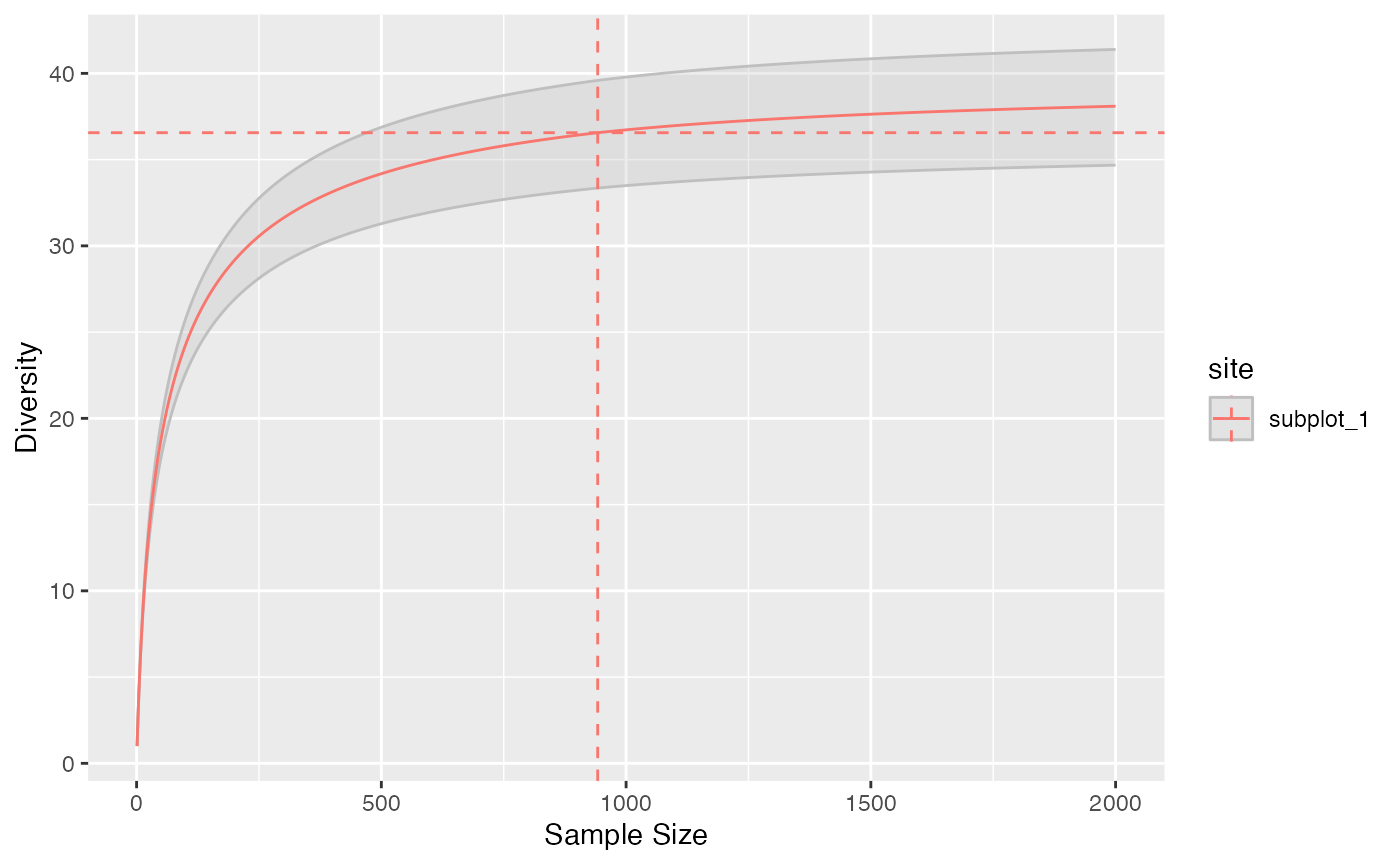
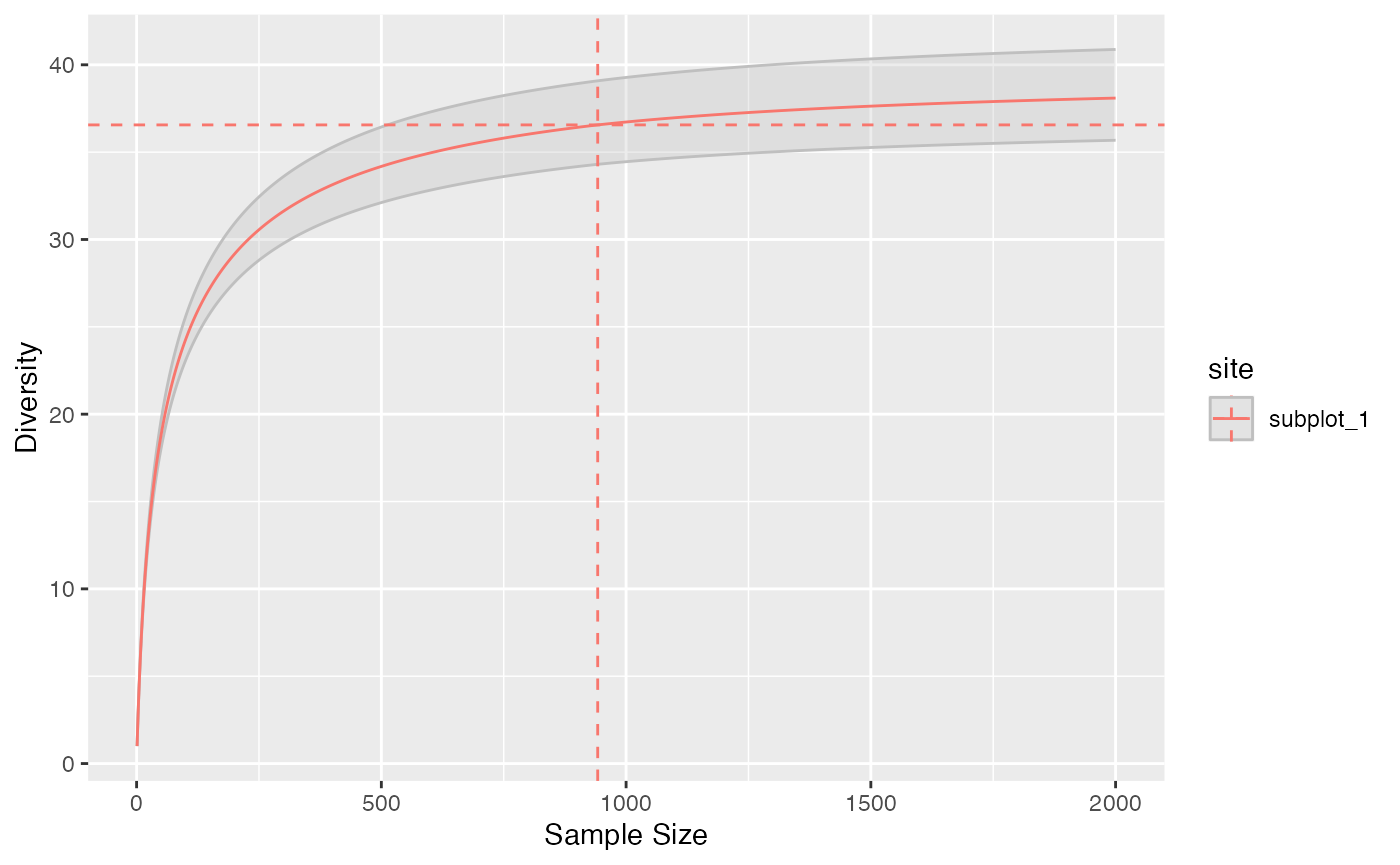
Built site for divent: 0.3.12@9937432

diff --git a/reference/check_divent_args.html b/reference/check_divent_args.html
@@ -17,7 +17,7 @@
       </button>
       <span class="navbar-brand">
         <a class="navbar-link" href="../index.html">divent</a>
-        <span class="version label label-default" data-toggle="tooltip" data-placement="bottom" title="Released version">0.3.11</span>
+        <span class="version label label-default" data-toggle="tooltip" data-placement="bottom" title="Released version">0.3.12</span>
       </span>
     </div>
 
@@ -71,19 +71,29 @@
     <div id="ref-usage">
     <div class="sourceCode"><pre class="sourceCode r"><code><span><span class="fu">check_divent_args</span><span class="op">(</span></span>
 <span>  abundances <span class="op">=</span> <span class="cn">NULL</span>,</span>
+<span>  alpha <span class="op">=</span> <span class="cn">NULL</span>,</span>
 <span>  as_numeric <span class="op">=</span> <span class="cn">NULL</span>,</span>
 <span>  check_arguments <span class="op">=</span> <span class="cn">NULL</span>,</span>
+<span>  coverage_estimator <span class="op">=</span> <span class="cn">NULL</span>,</span>
+<span>  distances <span class="op">=</span> <span class="cn">NULL</span>,</span>
 <span>  estimator <span class="op">=</span> <span class="cn">NULL</span>,</span>
+<span>  gamma <span class="op">=</span> <span class="cn">NULL</span>,</span>
 <span>  jack_alpha <span class="op">=</span> <span class="cn">NULL</span>,</span>
 <span>  jack_max <span class="op">=</span> <span class="cn">NULL</span>,</span>
 <span>  level <span class="op">=</span> <span class="cn">NULL</span>,</span>
 <span>  n_simulations <span class="op">=</span> <span class="cn">NULL</span>,</span>
+<span>  normalize <span class="op">=</span> <span class="cn">NULL</span>,</span>
 <span>  probability_estimator <span class="op">=</span> <span class="cn">NULL</span>,</span>
 <span>  q <span class="op">=</span> <span class="cn">NULL</span>,</span>
+<span>  rate <span class="op">=</span> <span class="cn">NULL</span>,</span>
 <span>  richness_estimator <span class="op">=</span> <span class="cn">NULL</span>,</span>
 <span>  sample_coverage <span class="op">=</span> <span class="cn">NULL</span>,</span>
 <span>  show_progress <span class="op">=</span> <span class="cn">NULL</span>,</span>
-<span>  unveiling <span class="op">=</span> <span class="cn">NULL</span></span>
+<span>  similarities <span class="op">=</span> <span class="cn">NULL</span>,</span>
+<span>  species_distribution <span class="op">=</span> <span class="cn">NULL</span>,</span>
+<span>  tree <span class="op">=</span> <span class="cn">NULL</span>,</span>
+<span>  unveiling <span class="op">=</span> <span class="cn">NULL</span>,</span>
+<span>  weights <span class="op">=</span> <span class="cn">NULL</span></span>
 <span><span class="op">)</span></span></code></pre></div>
     </div>
 
@@ -91,6 +101,10 @@
     <h2>Arguments</h2>
     <dl><dt>abundances</dt>
 <dd><p>An object of class <a href="species_distribution.html">abundances</a>.</p></dd>
+
+
+<dt>alpha</dt>
+<dd><p>The risk level, 5% by default.</p></dd>
 
 
 <dt>as_numeric</dt>
@@ -102,8 +116,20 @@
 Should be set to <code>FALSE</code> to save time when the arguments have been checked elsewhere.</p></dd>
 
 
+<dt>coverage_estimator</dt>
+<dd><p>An estimator of sample coverage used by <a href="coverage.html">coverage</a>.</p></dd>
+
+
+<dt>distances</dt>
+<dd><p>A distance matrix or an object of class <a href="https://rdrr.io/r/stats/dist.html" class="external-link">stats::dist</a></p></dd>
+
+
 <dt>estimator</dt>
 <dd><p>An estimator of asymptotic entropy, diversity or richness.</p></dd>
+
+
+<dt>gamma</dt>
+<dd><p>If <code>TRUE</code>, \(\gamma\) diversity, i.e. diversity of the metacommunity, is computed.</p></dd>
 
 
 <dt>jack_alpha</dt>
@@ -125,6 +151,10 @@ If not <code>NULL</code>, the asymptotic <code>estimator</code> is ignored.</p><
 <dd><p>The number of simulations used to estimate the confidence envelope.</p></dd>
 
 
+<dt>normalize</dt>
+<dd><p>If <code>TRUE</code>, phylogenetic is normalized: the height of the tree is set to 1.</p></dd>
+
+
 <dt>probability_estimator</dt>
 <dd><p>A string containing one of the possible estimators
 of the probability distribution (see <a href="probabilities.html">probabilities</a>).
@@ -133,6 +163,10 @@ Used only for extrapolation.</p></dd>
 
 <dt>q</dt>
 <dd><p>The order of diversity.</p></dd>
+
+
+<dt>rate</dt>
+<dd><p>The decay rate of the exponential similarity.</p></dd>
 
 
 <dt>richness_estimator</dt>
@@ -149,36 +183,6 @@ Used to calculate the gamma diversity of meta-communities, see details.</p></dd>
 <dd><p>If TRUE, a progress bar is shown during long computations.</p></dd>
 
 
-<dt>unveiling</dt>
-<dd><p>A string containing one of the possible unveiling methods
-to estimate the probabilities of the unobserved species (see <a href="probabilities.html">probabilities</a>).
-Used only for extrapolation.</p></dd>
-
-
-<dt>alpha</dt>
-<dd><p>The risk level, 5% by default.</p></dd>
-
-
-<dt>coverage_estimator</dt>
-<dd><p>An estimator of sample coverage used by <a href="coverage.html">coverage</a>.</p></dd>
-
-
-<dt>distances</dt>
-<dd><p>A distance matrix or an object of class <a href="https://rdrr.io/r/stats/dist.html" class="external-link">stats::dist</a></p></dd>
-
-
-<dt>gamma</dt>
-<dd><p>If <code>TRUE</code>, \(\gamma\) diversity, i.e. diversity of the metacommunity, is computed.</p></dd>
-
-
-<dt>normalize</dt>
-<dd><p>If <code>TRUE</code>, phylogenetic is normalized: the height of the tree is set to 1.</p></dd>
-
-
-<dt>rate</dt>
-<dd><p>The decay rate of the exponential similarity.</p></dd>
-
-
 <dt>similarities</dt>
 <dd><p>A similarity matrix, that can be obtained by <a href="fun_similarity.html">fun_similarity</a>.
 Its default value is the identity matrix.</p></dd>
@@ -191,6 +195,12 @@ Its default value is the identity matrix.</p></dd>
 <dt>tree</dt>
 <dd><p>An ultrametric, phylogenetic tree.
 May be an object of class <a href="phylo_divent.html">phylo_divent</a>, <a href="https://rdrr.io/pkg/ape/man/read.tree.html" class="external-link">ape::phylo</a>, <a href="https://rdrr.io/pkg/ade4/man/phylog.html" class="external-link">ade4::phylog</a> or <a href="https://rdrr.io/r/stats/hclust.html" class="external-link">stats::hclust</a>.</p></dd>
+
+
+<dt>unveiling</dt>
+<dd><p>A string containing one of the possible unveiling methods
+to estimate the probabilities of the unobserved species (see <a href="probabilities.html">probabilities</a>).
+Used only for extrapolation.</p></dd>
 
 
 <dt>weights</dt>

diff --git a/reference/abd_species.html b/reference/abd_species.html
@@ -17,7 +17,7 @@
       </button>
       <span class="navbar-brand">
         <a class="navbar-link" href="../index.html">divent</a>
-        <span class="version label label-default" data-toggle="tooltip" data-placement="bottom" title="Released version">0.3.11</span>
+        <span class="version label label-default" data-toggle="tooltip" data-placement="bottom" title="Released version">0.3.12</span>
       </span>
     </div>
 
@@ -71,7 +71,9 @@
     <div id="ref-usage">
     <div class="sourceCode"><pre class="sourceCode r"><code><span><span class="fu">abd_species</span><span class="op">(</span><span class="va">abundances</span>, check_arguments <span class="op">=</span> <span class="cn">TRUE</span><span class="op">)</span></span>
 <span></span>
-<span><span class="fu">abd_sum</span><span class="op">(</span><span class="va">abundances</span>, as_numeric <span class="op">=</span> <span class="cn">FALSE</span>, check_arguments <span class="op">=</span> <span class="cn">TRUE</span><span class="op">)</span></span></code></pre></div>
+<span><span class="fu">abd_sum</span><span class="op">(</span><span class="va">abundances</span>, as_numeric <span class="op">=</span> <span class="cn">FALSE</span>, check_arguments <span class="op">=</span> <span class="cn">TRUE</span><span class="op">)</span></span>
+<span></span>
+<span><span class="fu">prob_species</span><span class="op">(</span><span class="va">species_distribution</span>, check_arguments <span class="op">=</span> <span class="cn">TRUE</span><span class="op">)</span></span></code></pre></div>
     </div>
 
     <div id="arguments">
@@ -88,11 +90,16 @@ Should be set to <code>FALSE</code> to save time when the arguments have been ch
 <dt>as_numeric</dt>
 <dd><p>If <code>TRUE</code>, a number or a numeric vector is returned rather than a tibble.</p></dd>
 
+
+<dt>species_distribution</dt>
+<dd><p>An object of class <a href="species_distribution.html">species_distribution</a>.</p></dd>
+
 </dl></div>
     <div id="details">
     <h2>Details</h2>
     <p><code>abd_species()</code> returns a tibble containing the species abundance columns only,
-to simplify numeric operations.</p>
+to simplify numeric operations.
+<code>prob_species()</code> returns the same tibble but values are probabilities.</p>
 <p><code>abd_sum()</code> returns the sample sizes of the communities.</p>
     </div>
 

diff --git a/news/index.html b/news/index.html
@@ -17,7 +17,7 @@
       </button>
       <span class="navbar-brand">
         <a class="navbar-link" href="../index.html">divent</a>
-        <span class="version label label-default" data-toggle="tooltip" data-placement="bottom" title="Released version">0.3.11</span>
+        <span class="version label label-default" data-toggle="tooltip" data-placement="bottom" title="Released version">0.3.12</span>
       </span>
     </div>
 
@@ -64,16 +64,16 @@
     </div>
 
     <div class="section level2">
-<h2 class="page-header" data-toc-text="0.3-11" id="divent-03-11">divent 0.3-11<a class="anchor" aria-label="anchor" href="#divent-03-11"></a></h2>
+<h2 class="page-header" data-toc-text="0.3-12" id="divent-03-12">divent 0.3-12<a class="anchor" aria-label="anchor" href="#divent-03-12"></a></h2>
 <div class="section level3">
-<h3 id="features-0-3-11">Features<a class="anchor" aria-label="anchor" href="#features-0-3-11"></a></h3>
+<h3 id="features-0-3-12">Features<a class="anchor" aria-label="anchor" href="#features-0-3-12"></a></h3>
 <ul><li>Similarity and ordinariness of species.</li>
 <li>Similarity-based diversity: <code><a href="../reference/ent_similarity.html">ent_similarity()</a></code> and <code><a href="../reference/div_similarity.html">div_similarity()</a></code>
 </li>
 <li>Rao’s quadratic entropy: <code><a href="../reference/ent_rao.html">ent_rao()</a></code>.</li>
 </ul></div>
 <div class="section level3">
-<h3 id="todo-0-3-11">TODO<a class="anchor" aria-label="anchor" href="#todo-0-3-11"></a></h3>
+<h3 id="todo-0-3-12">TODO<a class="anchor" aria-label="anchor" href="#todo-0-3-12"></a></h3>
 <ul><li>Check gamma in accum_() functions.</li>
 </ul></div>
 </div>

diff --git a/reference/e_n_q.html b/reference/e_n_q.html
@@ -18,7 +18,7 @@ of parameter \(n\)."><meta property="og:image" content="https://ericmarcon.githu
       </button>
       <span class="navbar-brand">
         <a class="navbar-link" href="../index.html">divent</a>
-        <span class="version label label-default" data-toggle="tooltip" data-placement="bottom" title="Released version">0.3.11</span>
+        <span class="version label label-default" data-toggle="tooltip" data-placement="bottom" title="Released version">0.3.12</span>
       </span>
     </div>
 
@@ -117,7 +117,7 @@ which is not a correct estimate: it should not be used when \(q &gt; n\).</p>
 <span class="r-out co"><span class="r-pr">#&gt;</span> [1] 90</span>
 <span class="r-in"><span><span class="co"># with (empirical estimation)</span></span></span>
 <span class="r-in"><span><span class="fu"><a href="https://rdrr.io/r/base/mean.html" class="external-link">mean</a></span><span class="op">(</span><span class="fu"><a href="https://rdrr.io/r/stats/Poisson.html" class="external-link">rpois</a></span><span class="op">(</span><span class="fl">1000</span>, lambda <span class="op">=</span> <span class="va">n</span><span class="op">)</span><span class="op">^</span><span class="va">q</span><span class="op">)</span></span></span>
-<span class="r-out co"><span class="r-pr">#&gt;</span> [1] 113.793</span>
+<span class="r-out co"><span class="r-pr">#&gt;</span> [1] 108.743</span>
 <span class="r-in"><span><span class="co"># and (naive estimation)</span></span></span>
 <span class="r-in"><span><span class="va">n</span><span class="op">^</span><span class="va">q</span></span></span>
 <span class="r-out co"><span class="r-pr">#&gt;</span> [1] 100</span>

diff --git a/articles/divent.html b/articles/divent.html
@@ -40,7 +40,7 @@
       </button>
       <span class="navbar-brand">
         <a class="navbar-link" href="../index.html">divent</a>
-        <span class="version label label-default" data-toggle="tooltip" data-placement="bottom" title="Released version">0.3.11</span>
+        <span class="version label label-default" data-toggle="tooltip" data-placement="bottom" title="Released version">0.3.12</span>
       </span>
     </div>
 
@@ -416,7 +416,7 @@ sampling variability.</p>
 <span>  tree <span class="op">=</span> <span class="va">paracou_6_taxo</span>,</span>
 <span>  q <span class="op">=</span> <span class="fl">1</span>, </span>
 <span>  levels <span class="op">=</span> <span class="fl">1</span><span class="op">:</span><span class="fl">2000</span>, </span>
-<span>  n_simulations <span class="op">=</span> <span class="fl">100</span></span>
+<span>  n_simulations <span class="op">=</span> <span class="fl">10</span></span>
 <span><span class="op">)</span> <span class="op"><a href="https://magrittr.tidyverse.org/reference/pipe.html" class="external-link">%&gt;%</a></span> </span>
 <span>  <span class="fu"><a href="https://ggplot2.tidyverse.org/reference/autoplot.html" class="external-link">autoplot</a></span><span class="op">(</span><span class="op">)</span></span></code></pre></div>
 <p><img src="divent_files/figure-html/accum_div_phylo-1.png" width="700"></p>

diff --git a/authors.html b/authors.html
@@ -17,7 +17,7 @@
       </button>
       <span class="navbar-brand">
         <a class="navbar-link" href="index.html">divent</a>
-        <span class="version label label-default" data-toggle="tooltip" data-placement="bottom" title="Released version">0.3.11</span>
+        <span class="version label label-default" data-toggle="tooltip" data-placement="bottom" title="Released version">0.3.12</span>
       </span>
     </div>
 
@@ -79,13 +79,13 @@
 
     <p>Marcon E (2023).
 <em>divent: Entropy Partitioning to Measure Diversity</em>.
-R package version 0.3.11, <a href="https://github.com/EricMarcon/divent" class="external-link">https://github.com/EricMarcon/divent</a>. 
+R package version 0.3.12, <a href="https://github.com/EricMarcon/divent" class="external-link">https://github.com/EricMarcon/divent</a>. 
 </p>
     <pre>@Manual{,
   title = {divent: Entropy Partitioning to Measure Diversity},
   author = {Eric Marcon},
   year = {2023},
-  note = {R package version 0.3.11},
+  note = {R package version 0.3.12},
   url = {https://github.com/EricMarcon/divent},
 }</pre>
 

diff --git a/reference/index.html b/reference/index.html
@@ -17,7 +17,7 @@
       </button>
       <span class="navbar-brand">
         <a class="navbar-link" href="../index.html">divent</a>
-        <span class="version label label-default" data-toggle="tooltip" data-placement="bottom" title="Released version">0.3.11</span>
+        <span class="version label label-default" data-toggle="tooltip" data-placement="bottom" title="Released version">0.3.12</span>
       </span>
     </div>
 
@@ -219,7 +219,7 @@
         </td>
         <td><p>Abundance Frequency Count of a Community</p></td>
       </tr><tr><td>
-          <p><code><a href="abd_species.html">abd_species()</a></code> <code><a href="abd_species.html">abd_sum()</a></code> </p>
+          <p><code><a href="abd_species.html">abd_species()</a></code> <code><a href="abd_species.html">abd_sum()</a></code> <code><a href="abd_species.html">prob_species()</a></code> </p>
         </td>
         <td><p>Abundances of Communities</p></td>
       </tr><tr><td>

diff --git a/reference/accum_div_phylo.html b/reference/accum_div_phylo.html
@@ -18,7 +18,7 @@ entropy with respect to the sample size."><meta property="og:image" content="htt
       </button>
       <span class="navbar-brand">
         <a class="navbar-link" href="../index.html">divent</a>
-        <span class="version label label-default" data-toggle="tooltip" data-placement="bottom" title="Released version">0.3.11</span>
+        <span class="version label label-default" data-toggle="tooltip" data-placement="bottom" title="Released version">0.3.12</span>
       </span>
     </div>
 

diff --git a/reference/accum_hill.html b/reference/accum_hill.html
@@ -18,7 +18,7 @@ entropy with respect to the sample size."><meta property="og:image" content="htt
       </button>
       <span class="navbar-brand">
         <a class="navbar-link" href="../index.html">divent</a>
-        <span class="version label label-default" data-toggle="tooltip" data-placement="bottom" title="Released version">0.3.11</span>
+        <span class="version label label-default" data-toggle="tooltip" data-placement="bottom" title="Released version">0.3.12</span>
       </span>
     </div>
 

diff --git a/reference/autoplot.accumulation.html b/reference/autoplot.accumulation.html
@@ -18,7 +18,7 @@ accumulation functions.'><meta property="og:image" content="https://ericmarcon.g
       </button>
       <span class="navbar-brand">
         <a class="navbar-link" href="../index.html">divent</a>
-        <span class="version label label-default" data-toggle="tooltip" data-placement="bottom" title="Released version">0.3.11</span>
+        <span class="version label label-default" data-toggle="tooltip" data-placement="bottom" title="Released version">0.3.12</span>
       </span>
     </div>
 

diff --git a/reference/autoplot.profile.html b/reference/autoplot.profile.html
@@ -18,7 +18,7 @@ profile functions.'><meta property="og:image" content="https://ericmarcon.github
       </button>
       <span class="navbar-brand">
         <a class="navbar-link" href="../index.html">divent</a>
-        <span class="version label label-default" data-toggle="tooltip" data-placement="bottom" title="Released version">0.3.11</span>
+        <span class="version label label-default" data-toggle="tooltip" data-placement="bottom" title="Released version">0.3.12</span>
       </span>
     </div>
 

diff --git a/reference/coverage.html b/reference/coverage.html
@@ -20,7 +20,7 @@ sample coverage."><meta property="og:image" content="https://ericmarcon.github.i
       </button>
       <span class="navbar-brand">
         <a class="navbar-link" href="../index.html">divent</a>
-        <span class="version label label-default" data-toggle="tooltip" data-placement="bottom" title="Released version">0.3.11</span>
+        <span class="version label label-default" data-toggle="tooltip" data-placement="bottom" title="Released version">0.3.12</span>
       </span>
     </div>
 
